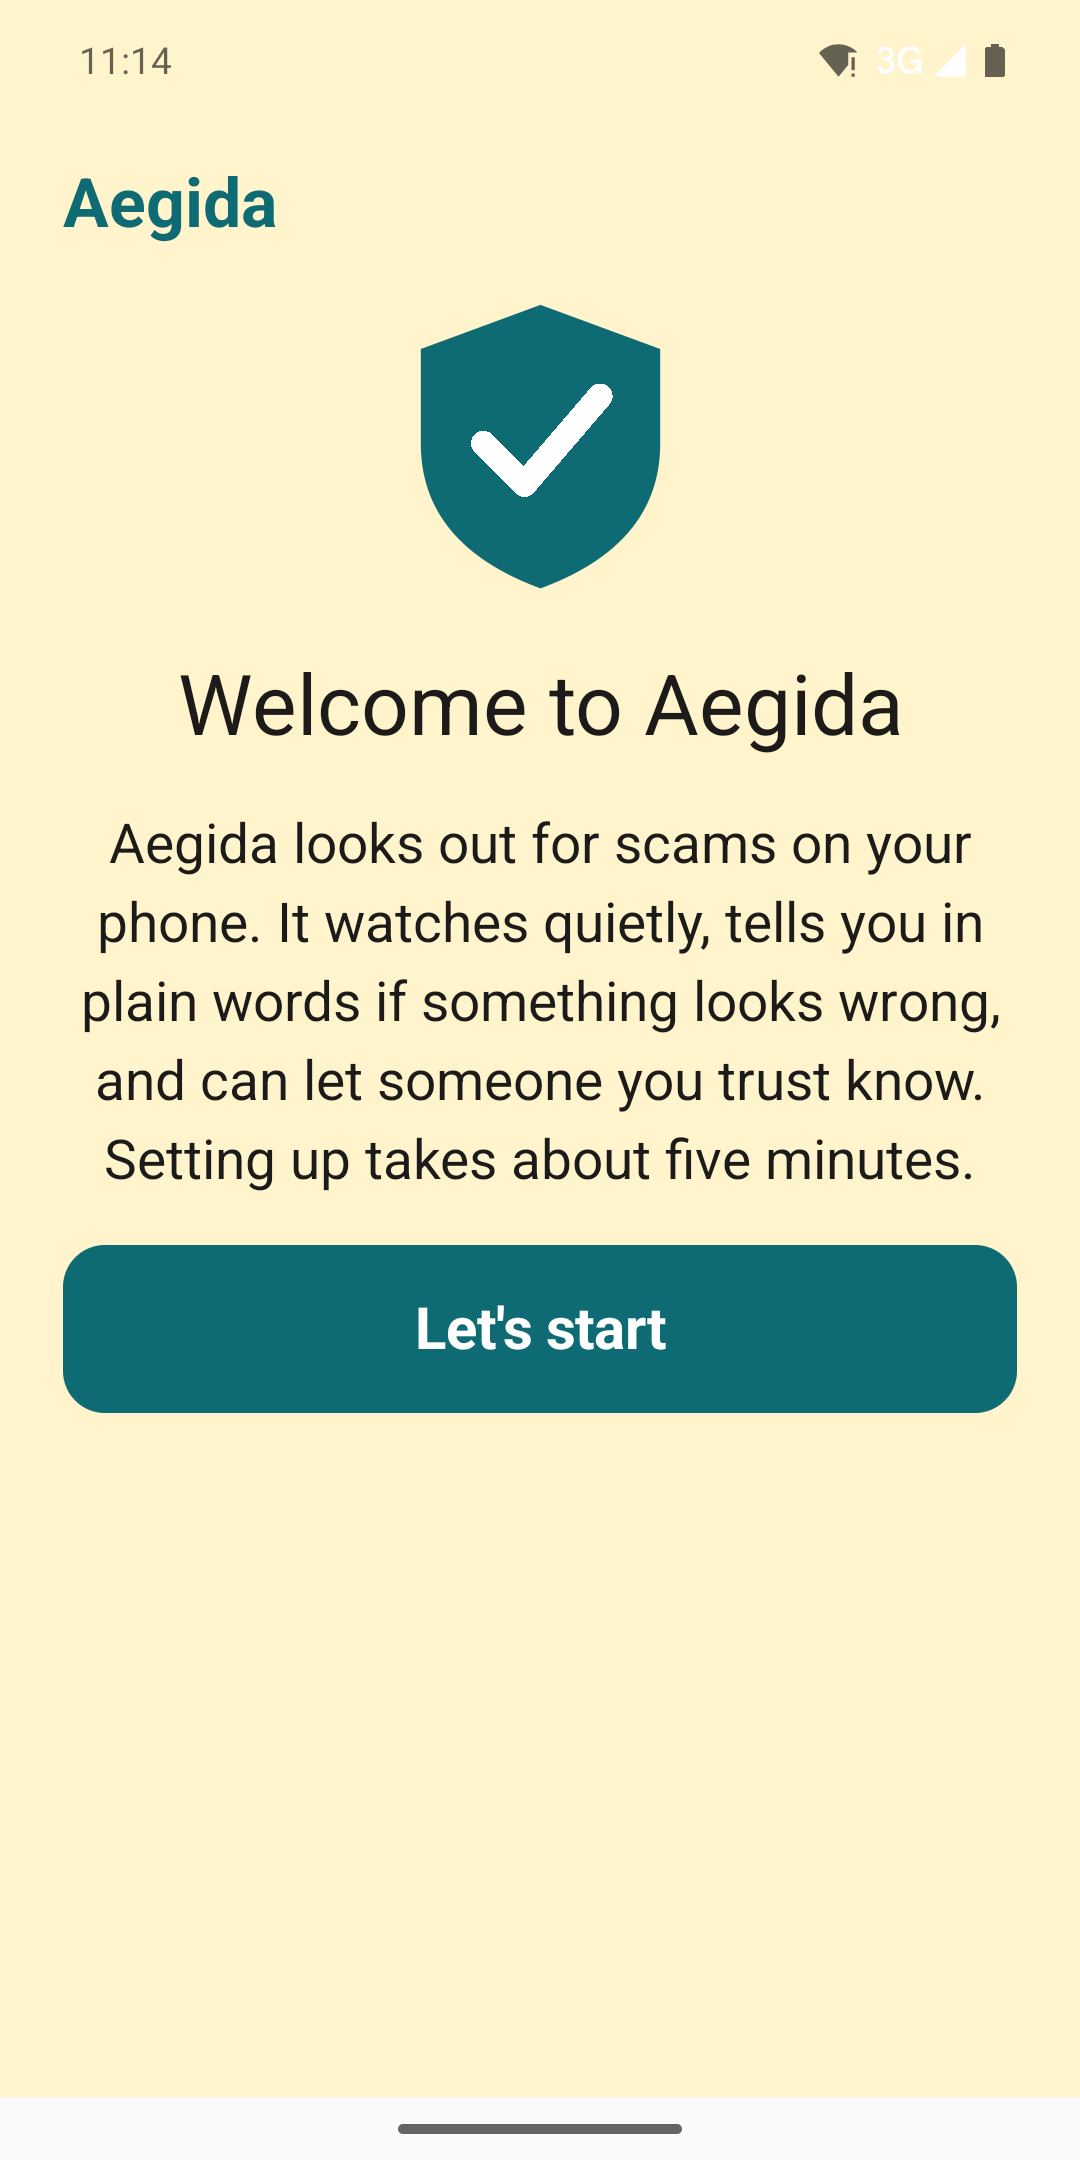
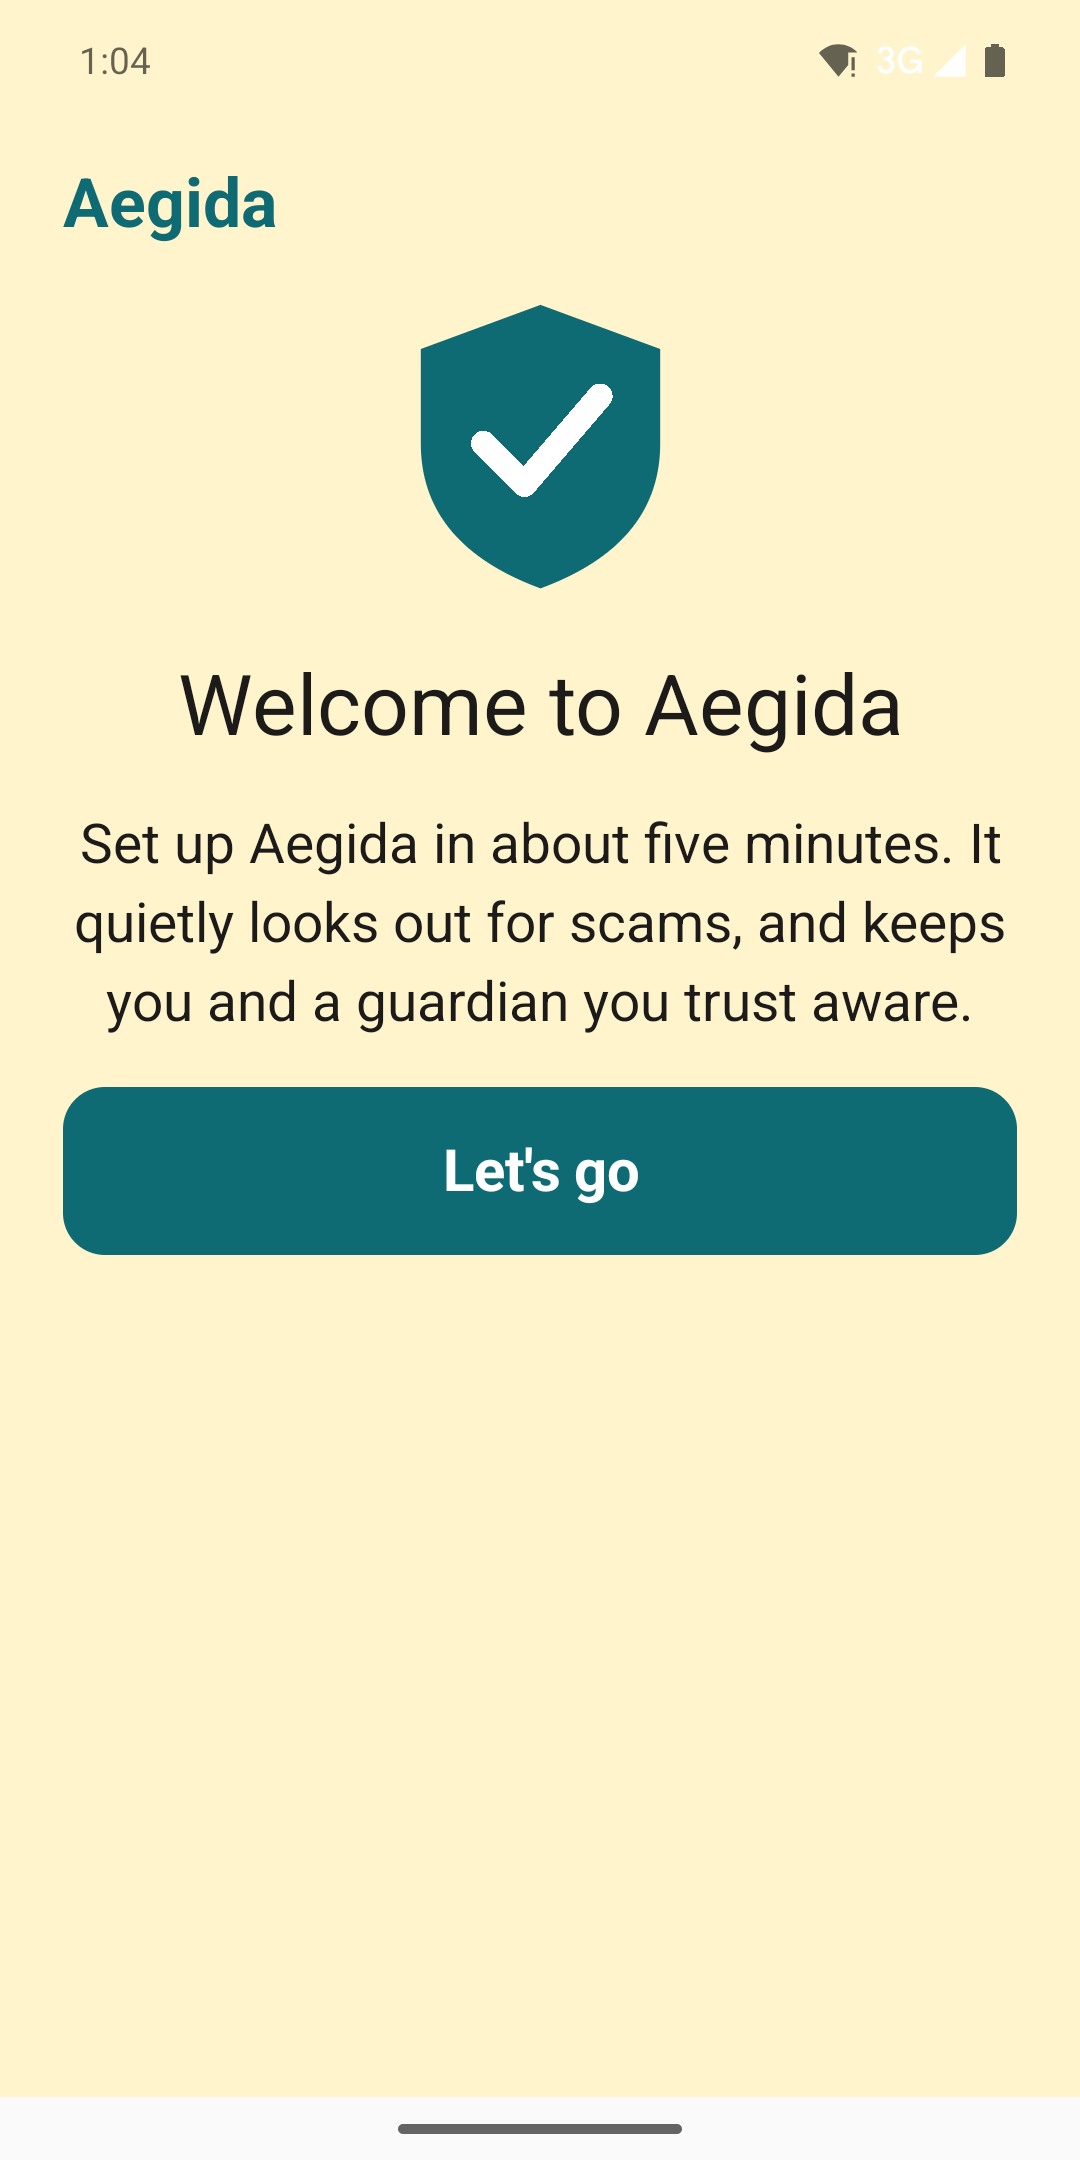
Release 0.3.0 (versionCode 3)
Shorter welcome, simpler second setup screen, "Skip this step?" popup, no permission warnings while setup is
still going, a new guardian told about what the old one knew, lists freshness in My settings, and the notice
reads "Aegida is looking out for you". Release notes for versionCode 3 and the store screenshots remade for the
new welcome (scripts/play-screenshots.py now takes My settings before any test message so the status bar is clean).

Changed region(s): [[0.0611, 0.3722, 0.9472, 0.6514], [0.1222, 0.0, 0.1528, 0.031]]

diff --git a/scripts/play-screenshots.py b/scripts/play-screenshots.py
@@ -141,6 +141,10 @@ if __name__ == "__main__":
         edit_db(clear_noise)
         start_app(8)
         shot("2-home")
+        # My settings first: before any test message is posted, so the status bar is clean
+        tap_text("My settings")
+        shot("5-my-settings")
+        tap_text("Home")
         sh("cmd notification disallow_listener %s/%s.AegidaListenerService" % (PKG, PKG))  # force a clean rebind
         sh("cmd notification allow_listener %s/%s.AegidaListenerService" % (PKG, PKG))
         time.sleep(8)
@@ -152,8 +156,6 @@ if __name__ == "__main__":
         time.sleep(2)
         tap_text("History")
         shot("4-history")
-        tap_text("My settings")
-        shot("5-my-settings")
     finally:
         clean_status_bar(False)
         sh("wm size reset")
